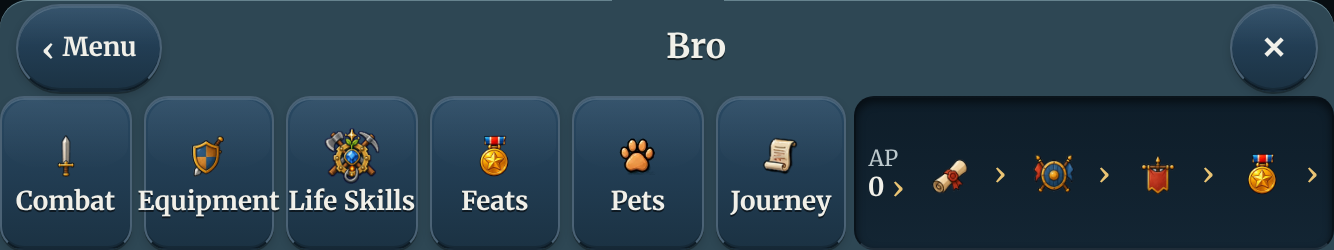
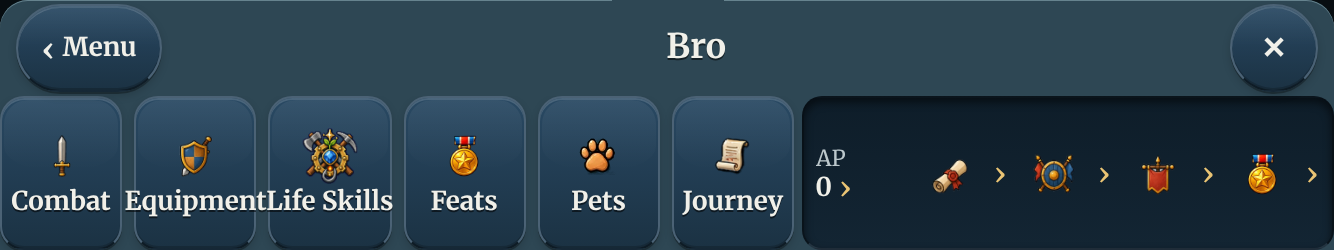
v2.3.6782: the pictures on the final code; the status file
Claude-Session: https://claude.ai/code/session_01LccHai1pt37SJXh1SBmLKM

diff --git a/docs/plan/status/UI3-bro.md b/docs/plan/status/UI3-bro.md
@@ -1,7 +1,7 @@
 card: UI3-bro
 branch: claude/plan-ui3-3-bro
 prs: PR 3 of UI3 (tag 6782): draft, base claude/plan-ui3-1-kit (number in the orchestrator's message)
-state: working
+state: ready
 
 ## Done
 - tag 6782 (stacked on the kit, Gear's PR 3 merged in first): Bro is ONE page for yourself. `src/game/broHub.js`: `BRO_HUB_DOORS` the six (Combat, Equipment, Life Skills / Feats, Pets, Journey); `BRO_STRIP`, `broStrip(r, who)` (built from `broPassport`), `broSelfPage(id, who)`; roads titles `bro:strip/title`, clan `bro:strip/clan`; `MORE_ROADS.journey` 'bro'. `sheet/BroLanding.jsx` draws the six and the new `sheet/BroStrip.jsx` (the kit's facts, a row of flat doors, `broStrip.css`); `BroCard.jsx` hands `readPassport(S)` and draws `CharacterPage` only for another player; `BroDoorPage` reads the frame entry's `who` and falls to the one page (no 'character' fallback).
@@ -9,12 +9,14 @@ state: working
 - Tests: `mp-ui2bro` rewritten (1a-1e the six and the strip in four shapes and a computer, 2a-2c, 3a-3b, 4, 5, 6/6b, 7a-7b, 8a-8b, 9 another player's Character, 10); `mp-apchip` 3 reads the strip; `mp-ui2frame` 4d's words; `H.dashOpen` rows.
 - `states.mjs` ui2-bro-landing / -character (another player) / -titles (from the strip); UI-DESIGN-NOTES "Bro: one page"; the decision log's part 2 line; pictures `docs/shots/ui2-bro-*.png` (before: `ui2-bro-before-*.png`).
 
+- Runs on the final code (the test box, after merging the kit's branch and main once): mp-ui2bro 26/26, mp-apchip 4/4, mp-ui2frame 34/34, mp-ui2combat 51/51, mp-deskkeys 60/61 (8f, the sword's double-click lunge: main's own red, card CT's verdict); precheck 0 FAIL.
+
 ## Next
-- The last phone runs on the final code, precheck, one push, the draft PR, one message.
+- Nothing: PR 3 waits for the gatekeeper.
 
 ## Found
 - `BottomDashboard.jsx`:1811 hands Bro's pages only the id, never the stack entry's `who`: a push of another player's page drew yours. Worked round inside `BroDoorPage` (it reads the top entry's `who` from the nav bus); the frame handing it down is cleaner (not my file).
-- `CharacterPage` for another player reads YOUR readings (`readPassport(S)`: name, levels, AP); only the label and face are theirs. Step 9 must hand theirs in (not my file: `CharacterPage.jsx` header only).
+- `CharacterPage` for another player reads YOUR readings (`readPassport(S)`: name, title, levels, AP; seen in `docs/shots/ui2-bro-other.png`); only the label and face are theirs. Step 9 must hand theirs in (not my file: `CharacterPage.jsx` header only).
 - A push of `broCharacter` for yourself (nothing does it now) draws the one page under the header word "Character" (FRAME_PAGES' word; the header is not my file).
 
 ## Needs
